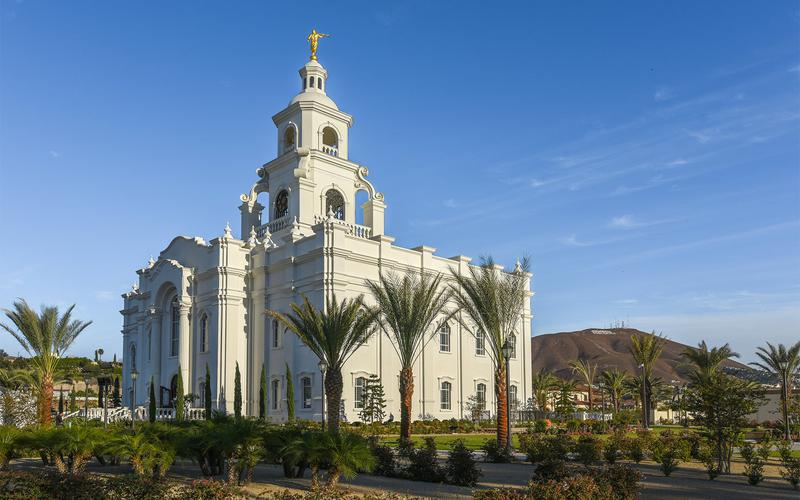
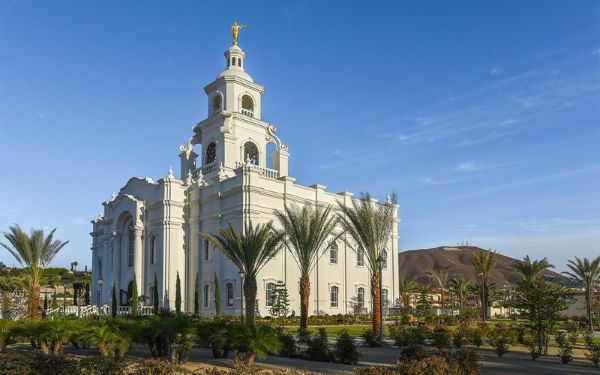
second-pass

diff --git a/temples.html b/temples.html
@@ -3,7 +3,7 @@
 <head>
     <meta charset="UTF-8">
     <meta name="viewport" content="width=device-width, initial-scale=1.0">
-    <title>Document</title>
+    <title>Temple Album</title>
     <meta name="description" content="A responsive picture album page that utilizes a 'hamburger' menu and responds to user requests.">
     <meta name="author" content="Oluwagbemi Yoloye">
     <link rel="preconnect" href="https://fonts.googleapis.com">
@@ -25,14 +25,14 @@
                 <li><a href="#temple5">Small</a></li>
             </ul>
         </nav>
-        <button type="button" id="menu"></button>
+        <button type="button" id="menu" name="menu button"></button>
     </header>
     <main>
         <h1>Home</h1>
         <section>
             <div class="temple-gallery">
                 <figure id="temple1" class="temple">
-                    <img src="images/arequipa_temple.jpeg" alt="Arequipa Temple">
+                    <img src="images/arequipa_temple.jpg" alt="Arequipa Temple">
                     <figcaption>Arequipa, Peru</figcaption>
                 </figure>
                 <figure id="temple2" class="temple">

diff --git a/styles/temples.css b/styles/temples.css
@@ -15,6 +15,7 @@ header {
     align-items: center;
     background-color: rgb(29,77,114);
     position: relative;
+    color: rgb(255,255,255);
     width: 100%;
 }
 
@@ -23,7 +24,7 @@ header p {
         font-size: 1.25rem;
         font-weight: 700;
         padding: 1rem;
-        color: #fff;
+        color: rgb(255,255,255);
         margin: 0;
     }
 
@@ -42,6 +43,7 @@ header p {
 }
 
 nav {
+    display: flex;
     background-color: rgb(29,77,114);
     color: rgb(255,255,255);
     text-align: center;
@@ -71,7 +73,7 @@ nav {
 
 .navigation a:hover,
 .navigation a:active {
-	color: white;
+	color: rgb(255,255,255)
 }
 
 .show li {
